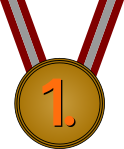
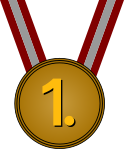
highscore erste Plätze und bessere Goldmedaille

Changed region(s): [[0.3387, 0.5101, 0.6048, 0.8591]]

diff --git a/Webproject/js/highscore.js b/Webproject/js/highscore.js
@@ -1,0 +1,149 @@
+var jsonAcc1 = {
+  "name" : "Hannes",
+  "maarounds" :  "5" , "maawins" : "3" ,
+  "ballrounds" : "2",
+  "Vierrounds" : "15" , "Vierwins" : "14",
+  "pongrounds" : "7", "pongwins" : "5",
+  "tttrounds" : "8", "tttwins" : "4"};
+var jsonAcc2 = {
+  "name" : "Daniel",
+  "maarounds" :  "8" , "maawins" : "3" ,
+  "ballrounds" : "500",
+  "Vierrounds" : "30" , "Vierwins" : "29",
+  "pongrounds" : "15", "pongwins" : "5",
+  "tttrounds" : "6", "tttwins" : "5"};
+var jsonAcc3 = {
+    "name" : "Felix",
+    "maarounds" :  "1" , "maawins" : "1" ,
+    "ballrounds" : "3",
+    "Vierrounds" : "30" , "Vierwins" : "14",
+    "pongrounds" : "15", "pongwins" : "5",
+    "tttrounds" : "6", "tttwins" : "5"};
+
+var everything = [
+  [ (jsonAcc1.maawins / jsonAcc1.maarounds) ,
+    (jsonAcc1.ballrounds) ,
+    (jsonAcc1.Vierwins / jsonAcc1.Vierrounds) ,
+    (jsonAcc1.pongwins / jsonAcc1.pongrounds) ,
+    (jsonAcc1.tttwins / jsonAcc1.tttrounds),
+    (jsonAcc1.name)
+  ],
+  [ (jsonAcc2.maawins / jsonAcc2.maarounds) ,
+    (jsonAcc2.ballrounds) ,
+    (jsonAcc2.Vierwins / jsonAcc2.Vierrounds) ,
+    (jsonAcc2.pongwins / jsonAcc2.pongrounds) ,
+    (jsonAcc2.tttwins / jsonAcc2.tttrounds),
+    (jsonAcc2.name)
+  ],
+  [ (jsonAcc3.maawins / jsonAcc3.maarounds) ,
+    (jsonAcc3.ballrounds) ,
+    (jsonAcc3.Vierwins / jsonAcc3.Vierrounds) ,
+    (jsonAcc3.pongwins / jsonAcc3.pongrounds) ,
+    (jsonAcc3.tttwins / jsonAcc3.tttrounds),
+    (jsonAcc3.name)
+  ]
+];
+for (var k = 0; k < everything.length; k++) {
+  for (var i = 0; i < everything[0].length - 1; i++) {
+      everything[k][i] = Number(Number(everything[k][i]).toFixed(2));
+      // console.log(everything[k][i]);
+  }
+
+}
+{/* <th id="1maa"> Bester in Mount'Axe</th> <!-- Siegesanzahl / Spieleanzahl -->
+<th id="1ball"> Bester in Roll a Ball</th> <!-- Spieleanzahl -->
+<th id="14"> Bester in 4 Gewinnt</th> <!-- Siegesanzahl / Spieleanzahl -->
+<th id="1pong"> Bester in Pong</th> <!-- Siegesanzahl / Spieleanzahl -->
+<th id="1ttt"> Bester in TicTacToe</th> <!-- Siegesanzahl / Spieleanzahl --> */}
+var amountOfGames = 5;
+var positions = 3;
+var temp;
+var tableCells = [
+  "1maa","1ball","14","1pong","1ttt",
+  "2maa","2ball","24","2pong","2ttt",
+  "3maa","3ball","34","3pong","3ttt",
+]
+// 1. Plätze
+// console.log(tableCells[i]);
+var firstRow = [
+    "1maa","1ball","14","1pong","1ttt"
+];
+var secondRow = [
+    "2maa","2ball","24","2pong","2ttt"
+];
+var thirdRow = [
+    "3maa","3ball","34","3pong","3ttt"
+];
+// for (var i = 0; i < 3; i++) {
+//
+// }
+
+for (var cellCounter = 0; cellCounter < firstRow.length; cellCounter++) { //cell counter = spielcounter
+  temp = 0;
+  for (var userCounter = 0; userCounter < everything.length; userCounter++) {
+    // console.log(everything[userCounter][5]);
+    // console.log(everything[userCounter][cellCounter] +  ">" + temp + (everything[userCounter][cellCounter] > temp));
+    if (everything[userCounter][cellCounter] > temp) {
+      document.getElementById(firstRow[cellCounter]).innerHTML = everything[userCounter][5] + "<br>" + "mit " + "<br>" +everything[userCounter][cellCounter];
+      temp = everything[userCounter][cellCounter];
+    }
+  }
+}
+// for (var cellCounter = 0; cellCounter < secondRow.length; cellCounter++) { //cell counter = spielcounter
+//   temp = 0;
+//   for (var userCounter = 0; userCounter < everything.length; userCounter++) {
+//     // console.log(everything[userCounter][5]);
+//     // console.log(everything[userCounter][cellCounter] +  ">" + temp + (everything[userCounter][cellCounter] > temp));
+//     if (everything[userCounter][cellCounter] > temp) {
+//       document.getElementById(secondRow[cellCounter]).innerHTML = everything[userCounter][5] + "<br>" + "mit " + "<br>" +everything[userCounter][cellCounter];
+//       temp = everything[userCounter][cellCounter];
+//     }
+//   }
+// }
+// for (var cellCounter = 0; cellCounter < thirdRow.length; cellCounter++) { //cell counter = spielcounter
+//   temp = 0;
+//   for (var userCounter = 0; userCounter < everything.length; userCounter++) {
+//     // console.log(everything[userCounter][5]);
+//     // console.log(everything[userCounter][cellCounter] +  ">" + temp + (everything[userCounter][cellCounter] > temp));
+//     if (everything[userCounter][cellCounter] > temp) {
+//       document.getElementById(thirdRow[cellCounter]).innerHTML = everything[userCounter][5] + "<br>" + "mit " + "<br>" +everything[userCounter][cellCounter];
+//       temp = everything[userCounter][cellCounter];
+//     }
+//   }
+// }
+
+//
+// // 6 Spiele everything[0].length - 1, das letzte ist name
+// for (var gameCounter = 0; gameCounter < everything[0].length; gameCounter++) {
+//   // Füllen der 15 Tribünenplätze
+//   for (var cellCounter = 0; cellCounter < tableCells.length; cellCounter++) {
+//     // 3 Spieler
+//     for (var userCounter = 0; userCounter < everything.length; userCounter++) {
+//       document.getElementById(tableCells[cellCounter]).innerHTML = everything[userCounter][gameCounter];
+//       }
+//     }
+//   }
+//
+//   // for (var j = 1; j < everything.length; j++) {
+//   //   if (Number(document.getElementById(tableCells[i]).innerHTML) < everything[j][2]){
+//   //     document.getElementById(tableCells[i]).innerHTML = "Number(everything[j][2 + i]).toFixed(2)";
+//   //   }
+//   // }
+// }
+// console.log(everything[0][3]);
+{/* <tr>
+    <th><img src="images/silver.png" alt="1. Platz"></th>
+    <th id="2maa">2. Bester in Mount'Axe</th> <!-- Siegesanzahl / Spieleanzahl -->
+    <th id="2ball">2. Bester in Roll a Ball</th> <!-- Spieleanzahl -->
+    <th id="24">2. Bester in 4 Gewinnt</th> <!-- Siegesanzahl / Spieleanzahl -->
+    <th id="2pong">2. Bester in Pong</th> <!-- Siegesanzahl / Spieleanzahl -->
+    <th id="2ttt">2. Bester in TicTacToe</th> <!-- Siegesanzahl / Spieleanzahl -->
+  </tr>
+  <tr>
+    <th><img src="images/bronze.png" alt="1. Platz"></th>
+    <th id="3maa">3. Bester in Mount'Axe</th> <!-- Siegesanzahl / Spieleanzahl -->
+    <th id="3ball">3. Bester in Roll a Ball</th> <!-- Spieleanzahl -->
+    <th id="34">3. Bester in 4 Gewinnt</th> <!-- Siegesanzahl / Spieleanzahl -->
+    <th id="3pong">3. Bester in Pong</th> <!-- Siegesanzahl / Spieleanzahl -->
+    <th id="3ttt">3. Bester in TicTacToe</th> <!-- Siegesanzahl / Spieleanzahl -->
+  </tr> */}

diff --git a/Webproject/highscore.html b/Webproject/highscore.html
@@ -13,6 +13,8 @@
 
   <link rel="stylesheet" href="css/style.css">
   <link rel="stylesheet" href="css/highscore.css">
+
+
 </head>
 
 <body>
@@ -48,7 +50,7 @@
       <table class="table">
         <thead>
           <tr>
-            <th></th>
+            <th>Highscores</th>
             <th>Mount'Axe</th>
             <th>Roll a Ball</th>
             <th>4 Gewinnt</th>
@@ -59,27 +61,11 @@
         <tbody>
           <tr>
             <th><img src="images/gold.png" alt="1. Platz"></th>
-            <th> Bester in Mount'Axe</th> <!-- Siegesanzahl / Spieleanzahl -->
-            <th> Bester in Roll a Ball</th> <!-- Spieleanzahl -->
-            <th> Bester in 4 Gewinnt</th> <!-- Siegesanzahl / Spieleanzahl -->
-            <th> Bester in Pong</th> <!-- Siegesanzahl / Spieleanzahl -->
-            <th> Bester in TicTacToe</th> <!-- Siegesanzahl / Spieleanzahl -->
-          </tr>
-          <tr>
-            <th><img src="images/silver.png" alt="1. Platz"></th>
-            <th>2. Bester in Mount'Axe</th> <!-- Siegesanzahl / Spieleanzahl -->
-            <th>2. Bester in Roll a Ball</th> <!-- Spieleanzahl -->
-            <th>2. Bester in 4 Gewinnt</th> <!-- Siegesanzahl / Spieleanzahl -->
-            <th>2. Bester in Pong</th> <!-- Siegesanzahl / Spieleanzahl -->
-            <th>2. Bester in TicTacToe</th> <!-- Siegesanzahl / Spieleanzahl -->
-          </tr>
-          <tr>
-            <th><img src="images/bronze.png" alt="1. Platz"></th>
-            <th>3. Bester in Mount'Axe</th> <!-- Siegesanzahl / Spieleanzahl -->
-            <th>3. Bester in Roll a Ball</th> <!-- Spieleanzahl -->
-            <th>3. Bester in 4 Gewinnt</th> <!-- Siegesanzahl / Spieleanzahl -->
-            <th>3. Bester in Pong</th> <!-- Siegesanzahl / Spieleanzahl -->
-            <th>3. Bester in TicTacToe</th> <!-- Siegesanzahl / Spieleanzahl -->
+            <th id="1maa"> Bester in Mount'Axe</th> <!-- Siegesanzahl / Spieleanzahl -->
+            <th id="1ball"> Bester in Roll a Ball</th> <!-- Spieleanzahl -->
+            <th id="14"> Bester in 4 Gewinnt</th> <!-- Siegesanzahl / Spieleanzahl -->
+            <th id="1pong"> Bester in Pong</th> <!-- Siegesanzahl / Spieleanzahl -->
+            <th id="1ttt"> Bester in TicTacToe</th> <!-- Siegesanzahl / Spieleanzahl -->
           </tr>
         </tbody>
       </table>
@@ -87,5 +73,6 @@
   </div>
 
   <footer><a href="impressum.html">Impressum</p></footer>
+  <script src="js/highscore.js">  </script>
 </body>
 </html>

diff --git a/Webproject/js/mountnaxe.js b/Webproject/js/mountnaxe.js
@@ -19,7 +19,7 @@ var activeDiv;
 var inactivePlayer;
 var availableFields;
 var mountAndAxeSocket;
-var game = "mountnaxe";
+var game = "maa";
 
 // function wsconnect(){
 //   console.log("MountAndAxe attempts to connect...");

diff --git a/Webproject/css/highscore.css b/Webproject/css/highscore.css
@@ -1,6 +1,4 @@
 #tableDiv{
   color: white;
   background-color: black;
-  width: 1000px;
-  height: 600px;
 }
